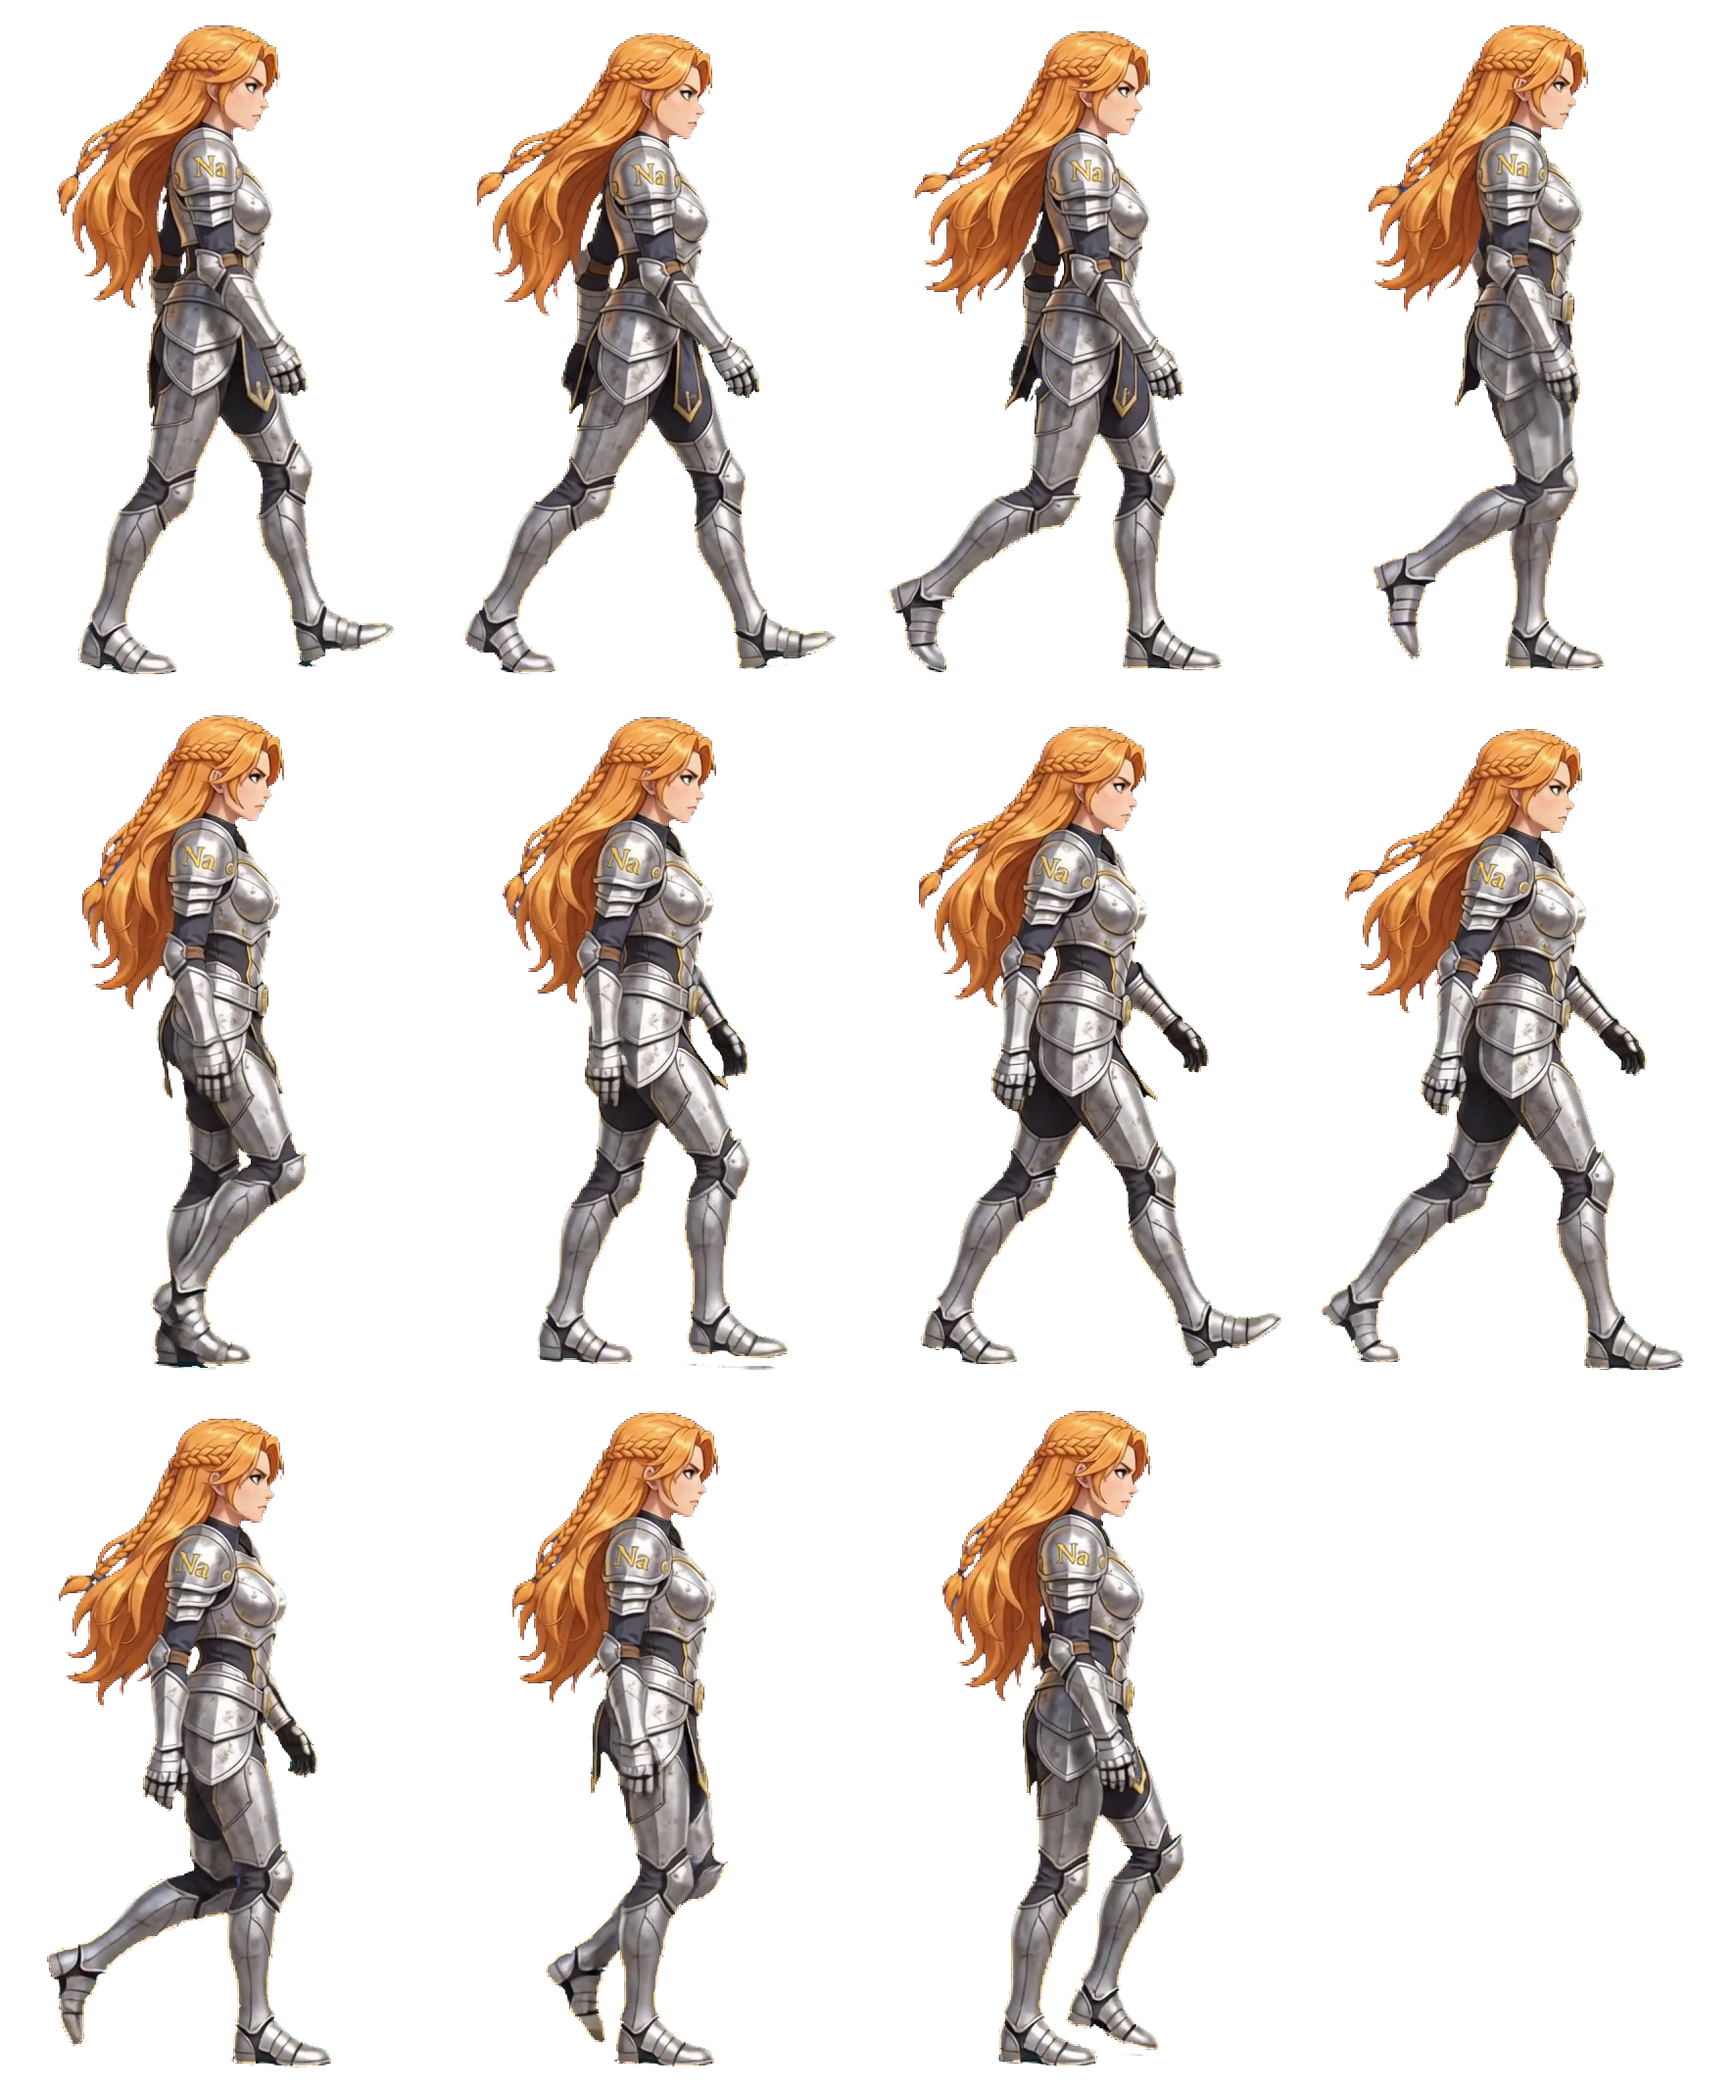
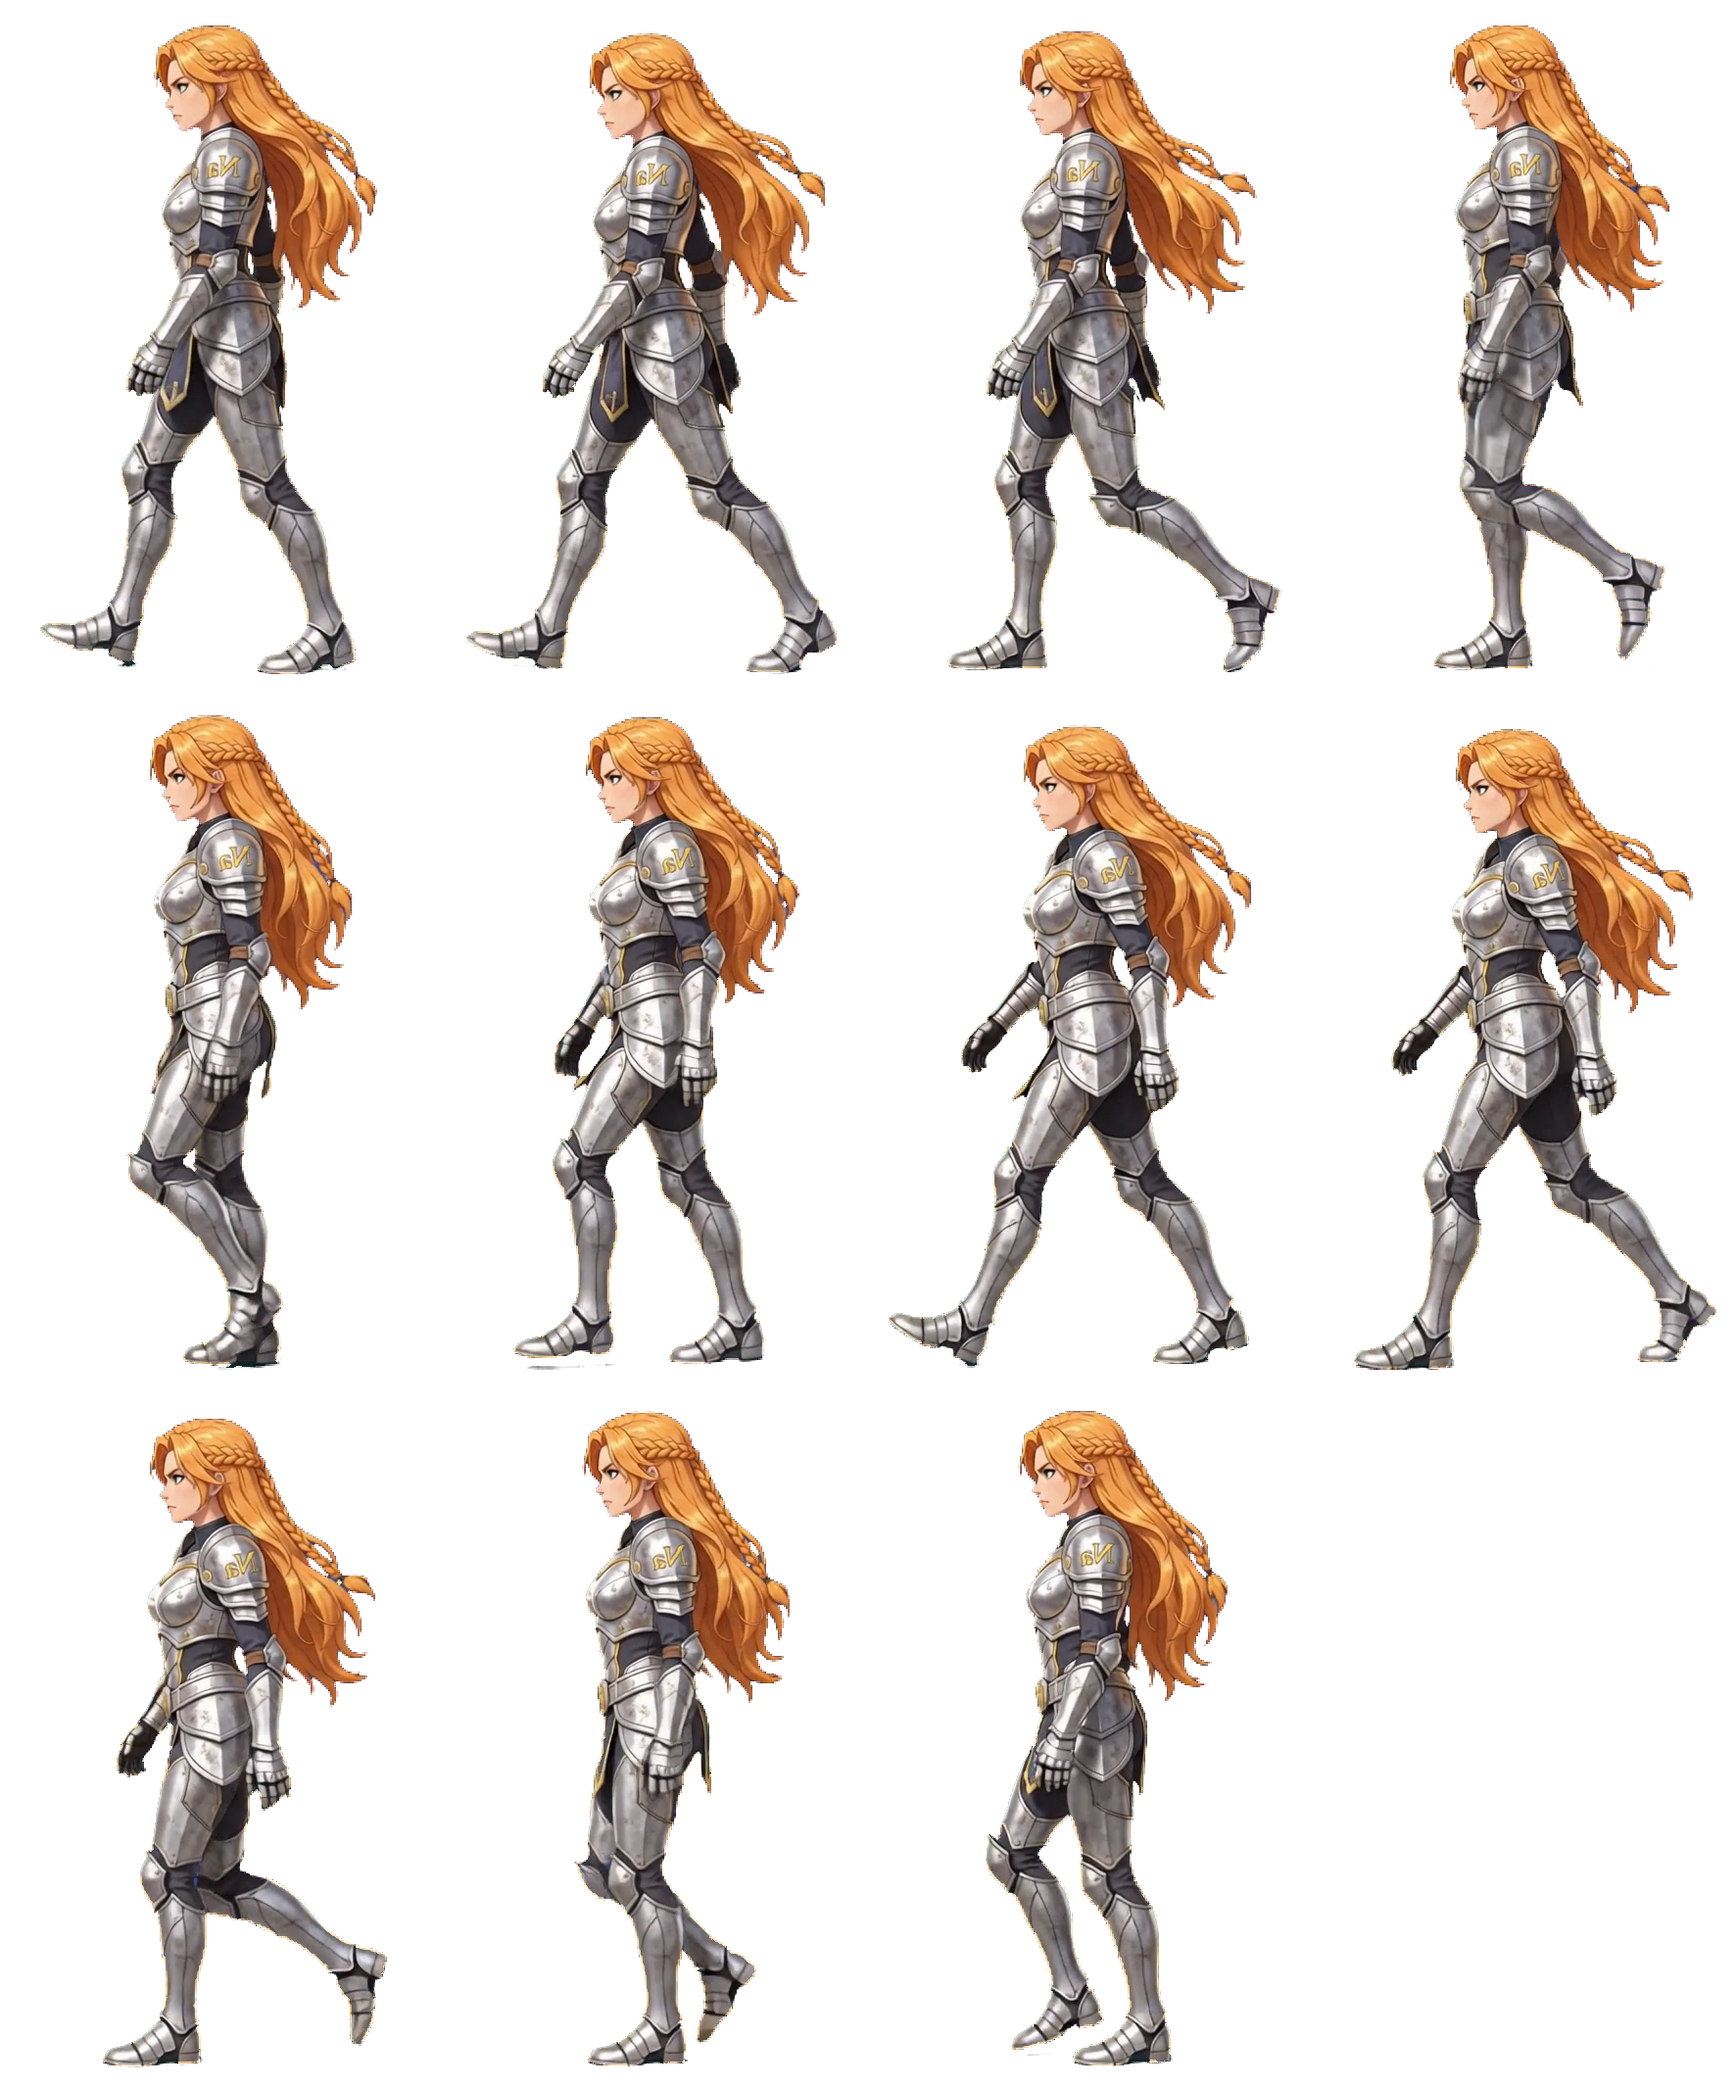
Natalie walk: mirror frames to match idle's native facing
The video walk faces right natively but art.facing is -1 (idle faces left)
and the Rig flips every clip by art.facing, so she walked backwards on the
deploy. Each 443x710 frame mirrored in place; alpha unchanged.

diff --git a/src/data/characters.js b/src/data/characters.js
@@ -1328,6 +1328,11 @@ export const CHARACTERS = {
           //   --step 3 --key blue --connected --pocket-min 4 --threshold 120
           // = one full stride cycle (33 src frames, frame 161 ~ 128, IoU 0.97),
           // threshold 120 so her darker-blue floor shadow keys out too.
+          // Then every frame mirrored in place (PIL ImageOps.mirror per
+          // 443x710 cell): the video walks facing RIGHT but art.facing is -1
+          // (her idle faces left natively) and the Rig flips all clips by
+          // art.facing, so unmirrored she walked backwards. All clips in a
+          // sheet must share the idle's native orientation.
           idle: { count: 14, fps: 3.6, loop: true },
           walk: { count: 11, fps: 8, loop: true, frameW: 443, frameH: 710, footY: 0.9686, visibleH: 661 },
         },
